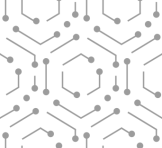
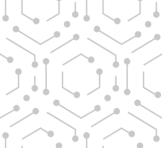
Fixed background image

diff --git a/index.css b/index.css
@@ -11,22 +11,12 @@ a:hover {
 
 body {
     background-color: #f08a5d;
+    background-image: url(background.png);
     color: #fff;
     font-family: 'Source Code Pro', monospace;
     padding: 2rem 1rem 0 1rem;
 }
 
-body::after{
-    content: "";
-  background: url(background.png);
-  opacity: 0.5;
-  top: 0;
-  left: 0;
-  bottom: 0;
-  right: 0;
-  position: absolute;
-  z-index: -1; 
-}
 h1 {
     background-color: #b83b5e;
     color: #f9ed69;
